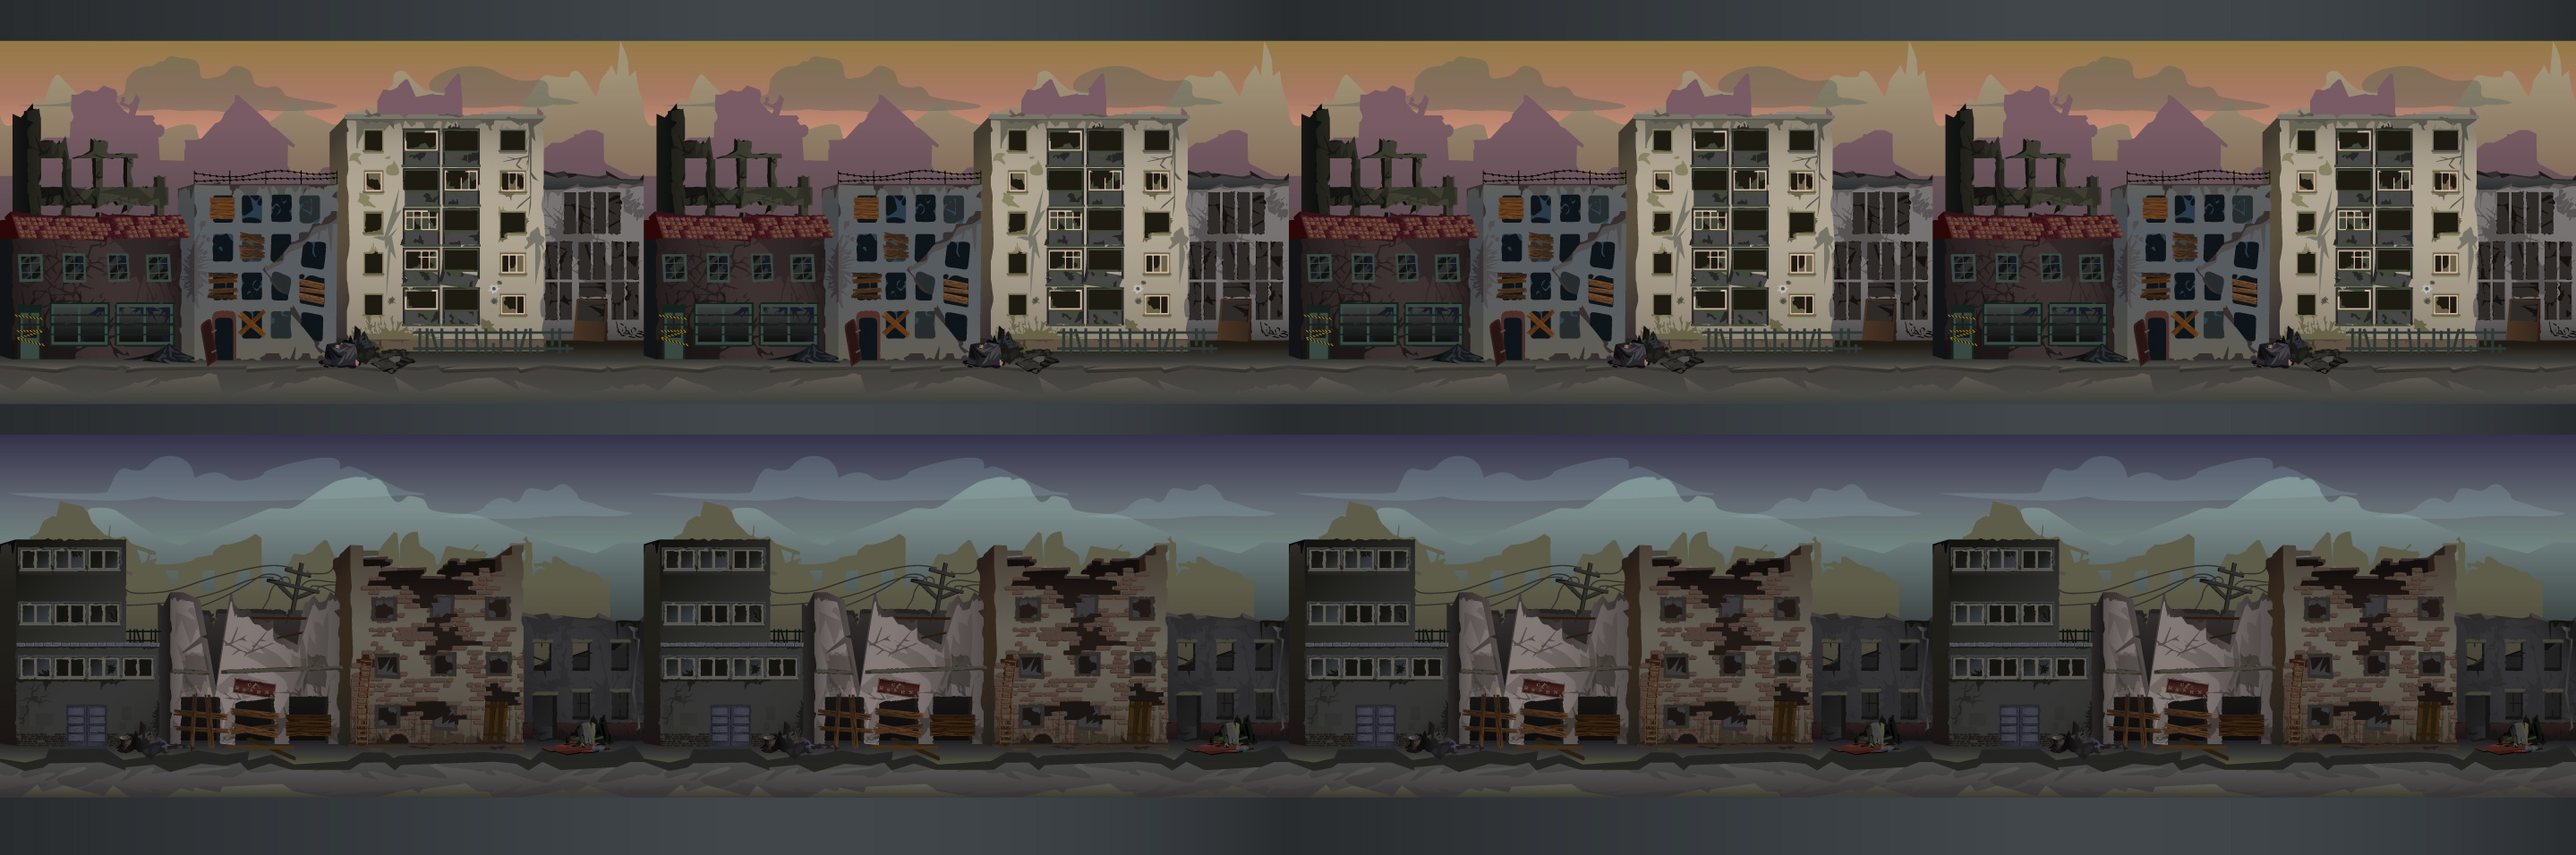
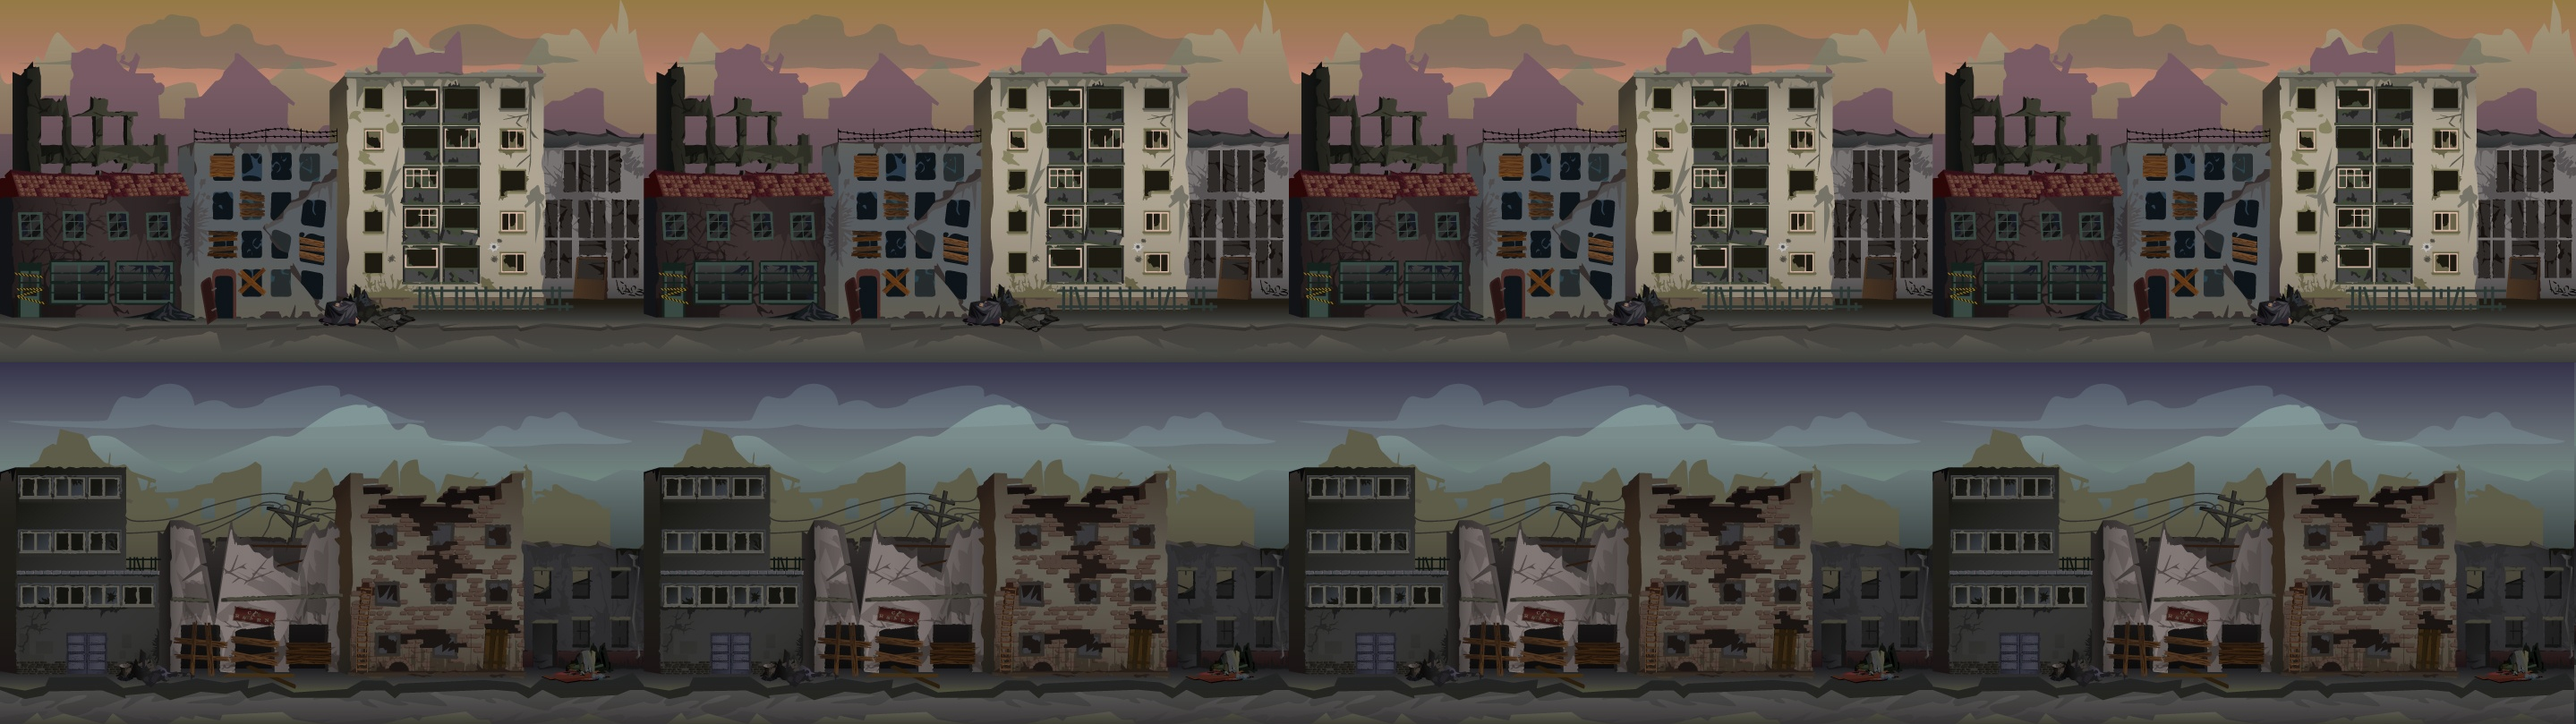
Sonidos y Mapas

diff --git a/01Zombicide/game/main/PanelGame.java b/01Zombicide/game/main/PanelGame.java
@@ -1,10 +1,14 @@
 package main;
 
+import java.applet.Applet;
+import java.applet.AudioClip;
 import java.awt.Color;
 import java.awt.Font;
 import java.awt.Graphics;
 import java.awt.Graphics2D;
 import java.awt.event.KeyEvent;
+import java.io.File;
+import java.net.MalformedURLException;
 import java.util.ArrayList;
 
 import javax.swing.JOptionPane;
@@ -49,7 +53,10 @@ public class PanelGame extends JPanel {
 	private ArrayList<Botiquin> botiquines;
 	private final static int VECESACELERACION = 500;
 	private int aceleracion;
-	
+	private AudioClip shotsound;
+	private AudioClip hitsound;
+	private AudioClip zombiesound;
+	private AudioClip oneupsound;
 	
 	public PanelGame() {
 		super();
@@ -63,6 +70,8 @@ public class PanelGame extends JPanel {
 		zombies = new ArrayList<Zombie>();
 		disparos = new ArrayList<Disparo>();
 		botiquines = new ArrayList<Botiquin>();
+		loadSound();
+		posicionjugador = player.getX();
 	}
 	
 	void update() {
@@ -100,12 +109,12 @@ public class PanelGame extends JPanel {
 		}
 		
 		if (input.isKeyDown(KeyEvent.VK_UP)) {
-			fondo.estatico();
-			player.up();
+		//	fondo.estatico();
+		//	player.up();
 		}
 		if (input.isKeyDown(KeyEvent.VK_DOWN)) {
-			fondo.estatico();
-			player.down();
+		//	fondo.estatico();
+		//	player.down();
 		}
 		
 		
@@ -118,9 +127,11 @@ public class PanelGame extends JPanel {
 		nacedisparo = ++nacedisparo % VECESDISPARO;
 		if (input.isKeyDown(KeyEvent.VK_SPACE)) {
 			if(nacedisparo==0) {
+				shotsound.stop();
 				fondo.estatico();
 				player.disparar();
 				disparo = new Disparo(posicionjugador, player.getDerecha());
+				shotsound.play();
 				disparos.add(disparo);
 			}
 		}
@@ -142,6 +153,7 @@ public class PanelGame extends JPanel {
 		if (zombies.isEmpty()) {
 			nuevaoleada = ++nuevaoleada % tiempooleada;
 			ronda+=1;
+			zombiesound.play();
 			for(int i = 0 ; i< zombiesnacen ; i++) {
 				zombie = new Zombie(posicionjugador);
 				zombies.add(zombie);
@@ -171,6 +183,7 @@ public class PanelGame extends JPanel {
 			for(Botiquin botiquin : botiquines) {
 				if(botiquin.colision(player)) {
 					vidas+=1;
+					oneupsound.play();
 					botiquines.remove(botiquin);
 					break;
 				}
@@ -180,7 +193,6 @@ public class PanelGame extends JPanel {
 			if (nacebotiquin==0 && vidas<3) {
 				botiquin = new Botiquin();
 				botiquines.add(botiquin);
-				System.out.println("botiquin spawned");
 			}
 			
 			aceleracion = ++aceleracion % VECESACELERACION;
@@ -189,9 +201,11 @@ public class PanelGame extends JPanel {
 					zombie.setSpeed(1);
 				}
 			}
+			
 	}
 	
 	private void mataZombie(Zombie zombie, Disparo disparo) {
+		hitsound.play();
 		disparos.remove(disparo);
 		zombies.remove(zombie);
 	}
@@ -234,6 +248,23 @@ public class PanelGame extends JPanel {
 	
 	public void start() {
 		gameLoop.start();
+	}
+
+	
+	private void loadSound() {
+		try {
+			shotsound = Applet.newAudioClip(new File("assets/shotsound.wav").toURI().toURL());
+			hitsound = Applet.newAudioClip(new File("assets/hit.wav").toURI().toURL());
+			zombiesound = Applet.newAudioClip(new File("assets/zombiesound.wav").toURI().toURL());
+			oneupsound = Applet.newAudioClip(new File("assets/1upsound.wav").toURI().toURL());
+		} catch (MalformedURLException e) {
+			// TODO Auto-generated catch block
+			e.printStackTrace();
+		}
+	}
+
+	public void changeMap() {
+		fondo.changeMap();
 	}
 	
 	

diff --git a/01Zombicide/game/main/GameMain.java b/01Zombicide/game/main/GameMain.java
@@ -1,13 +1,20 @@
 package main;
 
+import java.applet.Applet;
+import java.applet.AudioClip;
 import java.awt.BorderLayout;
 import java.awt.Color;
 import java.awt.Container;
 import java.awt.event.ActionEvent;
 import java.awt.event.ActionListener;
+import java.io.File;
+import java.net.MalformedURLException;
 
+import javax.swing.Icon;
+import javax.swing.ImageIcon;
 import javax.swing.JButton;
 import javax.swing.JFrame;
+import javax.swing.JLabel;
 import javax.swing.JPanel;
 
 import sprites.Fondo;
@@ -22,6 +29,8 @@ public class GameMain extends JFrame implements ActionListener {
 	private JButton btnFin;
 	private JButton btnStart;
 	private PanelGame panelGame;
+	private AudioClip bso;
+	private boolean map1=true;
 
 	/**
 	 * Launch the application.
@@ -41,16 +50,15 @@ public class GameMain extends JFrame implements ActionListener {
 		
 		// Panel Game
 		panelGame = new PanelGame();
-		
 		// Panel footer
 		JPanel panelFooter = new JPanel();
-		panelFooter.setBackground(Color.decode("#6A6DE2"));
+		panelFooter.setBackground(Color.decode("#3D0000"));
 		
 		btnStart = new JButton("Start");
 		btnStart.addActionListener(this);
 		panelFooter.add(btnStart);
 
-		btnChangeMap = new JButton("Change Map");
+		btnChangeMap = new JButton("Mapa 1");
 		btnChangeMap.addActionListener(this);
 		panelFooter.add(btnChangeMap);
 		
@@ -66,6 +74,8 @@ public class GameMain extends JFrame implements ActionListener {
 		container.add(panelGame, BorderLayout.CENTER);
 		container.add(panelFooter, BorderLayout.SOUTH);
 		setVisible(true);
+		loadSound();
+		bso.play();
 	}
 
 	@Override
@@ -77,6 +87,8 @@ public class GameMain extends JFrame implements ActionListener {
 			btnPlayPauseOnClick();
 		} else if (boton == btnFin) {
 			btnFinOnClick();
+		} else if(boton == btnChangeMap) {
+			btnChangeMapOnClick();
 		}
 	}
 
@@ -84,7 +96,9 @@ public class GameMain extends JFrame implements ActionListener {
 		panelGame.gameLoop.start();
 		panelGame.requestFocus();
 		btnStart.setEnabled(false);
+		btnChangeMap.setEnabled(false);
 		btnPlayPause.setEnabled(true);
+		panelGame.changeMap();
 	}
 
 	private void btnPlayPauseOnClick() {
@@ -98,6 +112,21 @@ public class GameMain extends JFrame implements ActionListener {
 	}
 	
 	private void btnChangeMapOnClick() {
-		//panelGame.
+		 panelGame.changeMap();
+		 if(map1) {
+			 btnChangeMap.setText("Mapa 2");
+		 }else
+			 btnChangeMap.setText("Mapa 1");
+		 map1=!map1;
 	}
+	
+	private void loadSound() {
+		try {
+			bso = Applet.newAudioClip(new File("assets/bso.wav").toURI().toURL());
+		} catch (MalformedURLException e) {
+			// TODO Auto-generated catch block
+			e.printStackTrace();
+		}
+	}
+	
 }

diff --git a/01Zombicide/game/sprites/Fondo.java b/01Zombicide/game/sprites/Fondo.java
@@ -9,13 +9,12 @@ public class Fondo {
 	private int x = util.Constant.ANCHOFONDO/2-util.Constant.WIDTHSCREEN/2;
 	
 	//Mapa1
-	//private int y= 0;
-	//Mapa 2
-	private int y = util.Constant.HEIGHTSCREEN-16;
+	private int y= -2;
 	
 	
 	private Image fondo = Assets.iifondo.getImage();
 	private int speed = 0;
+	private boolean map1=true;
 
 	public Fondo() {
 	}
@@ -49,7 +48,13 @@ public class Fondo {
 		speed = 0;
 	}
 	
-	public void setY(int y) {
-		this.y = y;
+	public void changeMap() {
+		if(map1) {
+			map1=false;
+			y=util.Constant.HEIGHTSCREEN-17;
+		}else {
+			map1=true;
+			y=(util.Constant.HEIGHTSCREEN-17)*2;
+		}
 	}
 }

diff --git a/01Zombicide/game/util/Assets.java b/01Zombicide/game/util/Assets.java
@@ -19,7 +19,7 @@ public class Assets {
     public static AudioClip pun;
       
     public static void loadAssets() {
-		iifondo = new ImageIcon("assets/2fondo.png");
+		iifondo = new ImageIcon("assets/fondo3.png");
 		iimario = new ImageIcon("assets/mariosheet.png");
 		iizombie = new ImageIcon("assets/zombiesheet.png");
 		iidisparo = new ImageIcon("assets/disparosheet.png");
